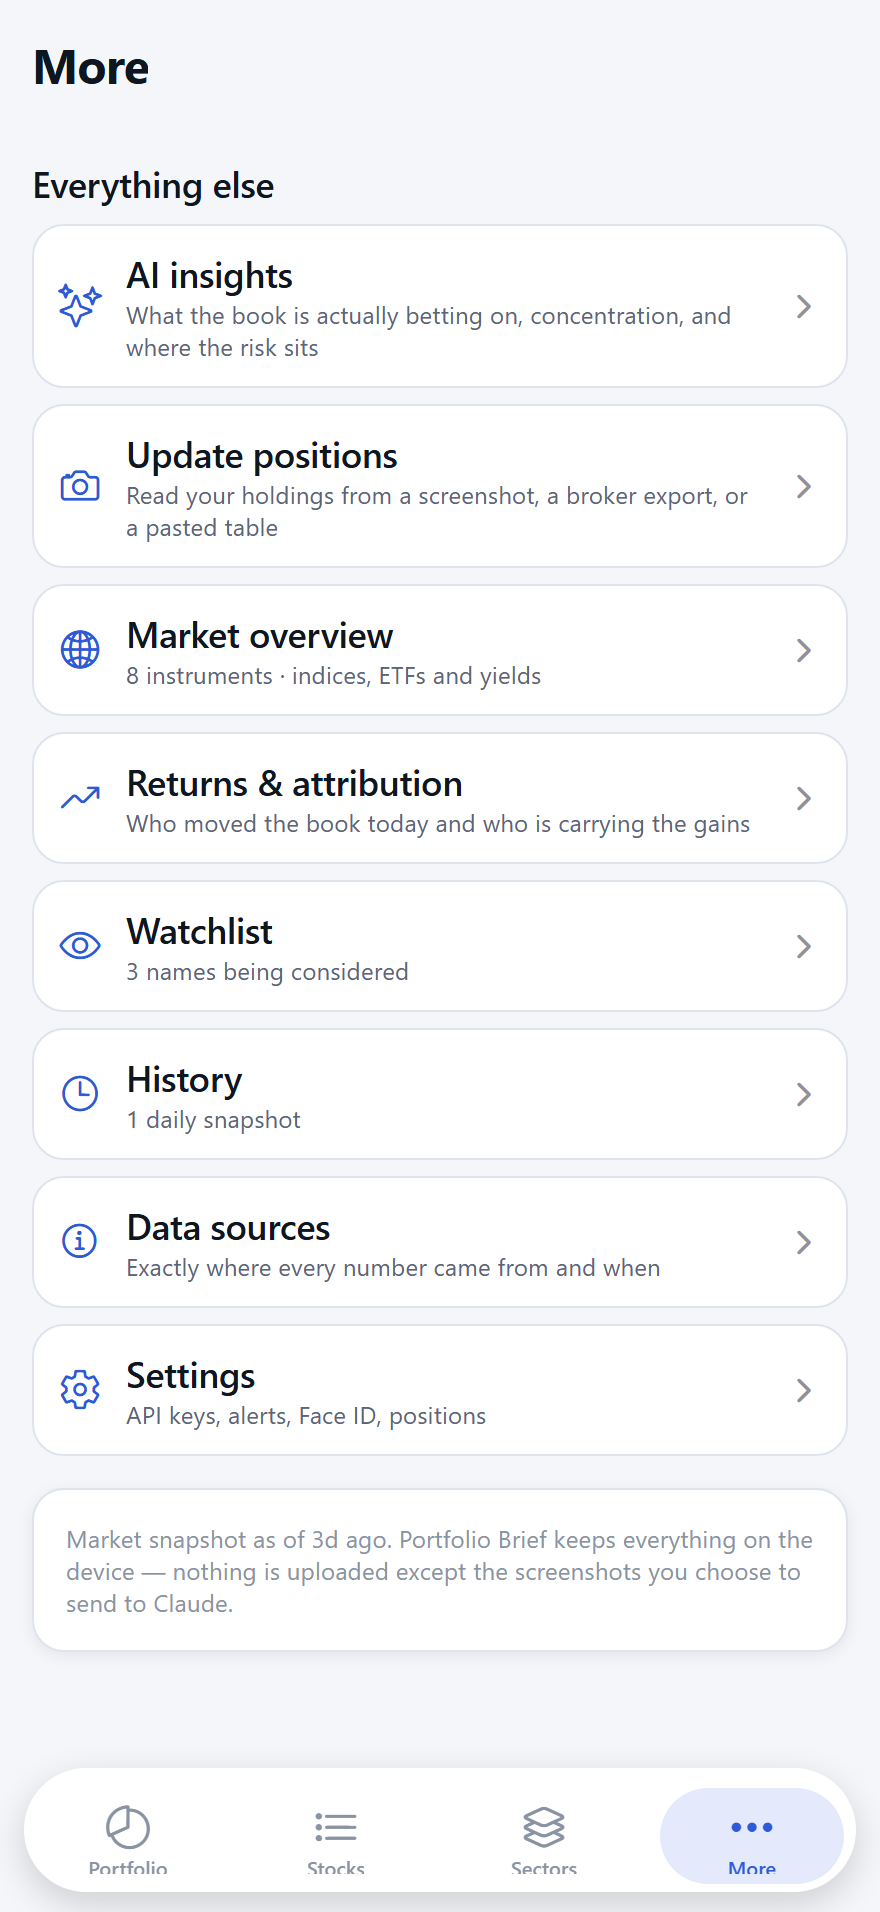
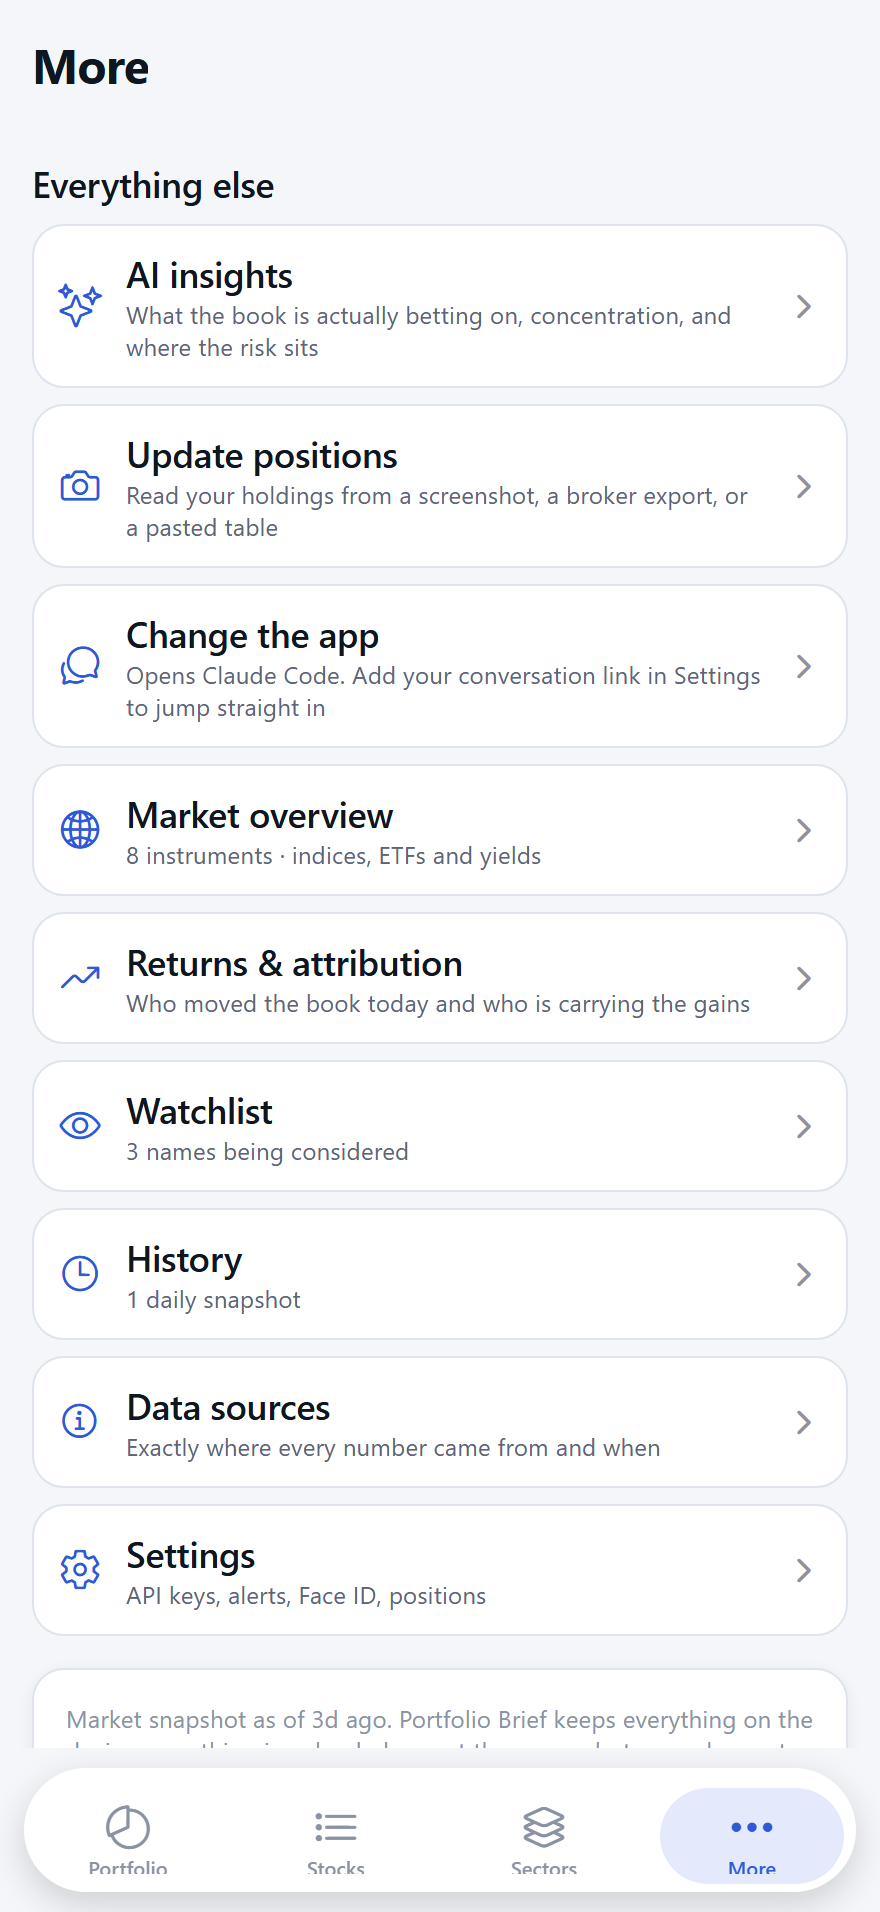
One button that opens the conversation this app is built in
Every earlier attempt at "let me say what to change from my phone" was a
detour around the same wish: composing request text, copying it to a
clipboard, opening a fresh session and pasting. The owner asked for the
short version — a button that opens this conversation — and that is
buildable, so the detours are gone and the button is what remains.

The link is not in the bundle. This repository is public and a session
belongs to its owner, so the app ships with the field empty and learns it
either from Settings or from being opened once as ?session=<url>, which
configures it in a single tap with no URL typed on a phone keyboard. It
lives in two places: the top of Settings, and a row in More, because More
is where a person looks for the things that change the app.

Also fixed, and found only by driving the deployed site end to end: the
image picker was re-encoding every screenshot as JPEG at quality 0.85, and
a broker table is small dark text on a light ground — exactly what JPEG
smears. Gemini read the original PNG perfectly and returned a null average
cost for the same screen after the re-encode, so an import that looked
like it worked wrote positions with no cost basis at all. The picker no
longer recompresses. The unit tests could not have caught this; only
pressing the real button on the real site did.

diff --git a/app/settings.tsx b/app/settings.tsx
@@ -33,7 +33,7 @@ export default function SettingsScreen() {
 
   return (
     <Screen>
-      <ChangeTheAppSection />
+      <TalkToClaudeSection />
 
       <Section
         title="Reading your screenshots"
@@ -205,102 +205,104 @@ export default function SettingsScreen() {
 }
 
 /**
- * Changing the app from the phone, using the subscription rather than the API.
+ * One button that opens the conversation this app is built in.
  *
- * The owner pays for Claude.ai and has no API credits, so the key field below
- * is closed to them — and what they actually wanted was never the in-app
- * research anyway: it was to send a screenshot, say what is wrong, and have
- * the app change. That loop exists, it just does not live inside this bundle.
- * A static page on Pages cannot reach a coding session, and editing the app
- * means writing files and running a build, which a browser tab cannot do.
+ * Everything else tried here was a workaround for the same wish — the owner
+ * wants to say "change this" with a screenshot and have it happen, and they
+ * pay for a Claude.ai subscription rather than API credits. A page served
+ * from Pages cannot reach a coding session, and no amount of copying request
+ * text into a clipboard makes that less of a detour. What it *can* do is open
+ * the conversation, on the phone, in one tap — which is the whole of it.
  *
- * What it can do is hand the request over intact. This composes the note, the
- * exact build the owner is looking at, and where to send it — so the session
- * on the other side starts with the commit, not with "which version?".
+ * The link is not in the bundle. This repository is public and the session
+ * belongs to the owner, so the app ships with the field empty and learns it
+ * either from Settings or from being opened once as `?session=<url>`.
  */
-function ChangeTheAppSection() {
-  const { spacing } = useTheme();
-  const [copied, setCopied] = useState<string | null>(null);
-  const [build, setBuild] = useState<string | null>(null);
-  const [note, setNote] = useState('');
-  const { palette, radius } = useTheme();
+function TalkToClaudeSection() {
+  const { spacing, palette, radius } = useTheme();
+  const settings = useApp((s) => s.settings);
+  const update = useApp((s) => s.updateSettings);
+  const [draft, setDraft] = useState(settings.claudeSessionUrl);
+  const [saved, setSaved] = useState(false);
 
+  // Opening the app as .../?session=<url> configures the button without
+  // anyone typing a URL on a phone keyboard.
   useEffect(() => {
-    // The commit the running site was built from, published beside it.
-    let live = true;
-    const base = (process.env.EXPO_PUBLIC_BASE_URL ?? '').replace(/^\/+|\/+$/g, '');
-    fetch(base ? `/${base}/build-info.json` : '/build-info.json', { cache: 'no-store' })
-      .then((r) => (r.ok ? r.json() : null))
-      .then((j) => {
-        if (live && j?.sha) setBuild(`${String(j.sha).slice(0, 7)} · built ${String(j.builtAt ?? '').slice(0, 16).replace('T', ' ')} UTC`);
-      })
-      .catch(() => {});
-    return () => {
-      live = false;
-    };
-  }, []);
-
-  const request = [
-    'Portfolio Brief — change request from the phone.',
-    build ? `Running build: ${build}` : 'Running build: unknown',
-    'Repo: yoav2410-create/Investing-app-, branch claude/iphone-investment-app-frn8sy',
-    '',
-    note.trim() || '(describe the change, and attach the screenshot)',
-  ].join('\n');
-
-  const copy = async () => {
+    if (Platform.OS !== 'web') return;
     try {
-      if (Platform.OS === 'web' && navigator?.clipboard) {
-        await navigator.clipboard.writeText(request);
-        setCopied('Copied. Paste it into Claude with your screenshot attached.');
-      } else {
-        setCopied('Copying is only available in the browser — select the text above instead.');
+      const fromLink = new URL(window.location.href).searchParams.get('session');
+      if (fromLink && fromLink !== settings.claudeSessionUrl && /^https:\/\//.test(fromLink)) {
+        update({ claudeSessionUrl: fromLink });
+        setDraft(fromLink);
+        setSaved(true);
       }
     } catch {
-      setCopied('The browser refused the clipboard. Select the text above and copy it by hand.');
+      /* a malformed address is not worth a crash */
     }
-  };
+    // Only on mount: this is a one-time handshake, not a live binding.
+    // eslint-disable-next-line react-hooks/exhaustive-deps
+  }, []);
+
+  const target = settings.claudeSessionUrl || 'https://claude.ai/code';
 
   return (
-    <Section title="Change the app" subtitle="Send a screenshot and say what should be different">
+    <Section title="Change the app" subtitle="Opens the conversation this app is built in">
       <Card style={{ gap: spacing.sm }}>
+        <Button
+          label={settings.claudeSessionUrl ? 'Open the conversation' : 'Open Claude Code'}
+          onPress={() => Linking.openURL(target)}
+        />
         <Text variant="caption" muted>
-          This works on a Claude.ai subscription and needs no API key. Open Claude Code in the
-          browser, attach the screenshot, paste the request below, and the change is made, built
-          and published to this site — the same loop that produced every version of it so far.
+          {settings.claudeSessionUrl
+            ? 'Tap it, attach a screenshot, say what should be different. The change is made, built and published back to this site.'
+            : 'Paste the link to your Claude Code conversation below and this button will open it directly. Until then it opens Claude Code.'}
         </Text>
         <TextInput
-          value={note}
+          value={draft}
           onChangeText={(t) => {
-            setNote(t);
-            setCopied(null);
+            setDraft(t);
+            setSaved(false);
           }}
-          placeholder="e.g. on the stock page the earnings card should show the quarter's date"
+          placeholder="https://claude.ai/code/session_…"
           placeholderTextColor={palette.textFaint}
-          multiline
-          accessibilityLabel="What should change"
+          autoCapitalize="none"
+          autoCorrect={false}
+          accessibilityLabel="Claude Code conversation link"
           style={{
-            minHeight: 64,
             color: palette.text,
             backgroundColor: palette.cardMuted,
             borderColor: palette.border,
             borderWidth: 1,
             borderRadius: radius.md,
-            padding: spacing.md,
+            paddingHorizontal: spacing.md,
+            minHeight: 44,
             fontSize: 15,
           }}
         />
         <View style={{ flexDirection: 'row', gap: spacing.sm }}>
-          <Button label="Copy the request" onPress={copy} style={{ flex: 1 }} />
           <Button
-            label="Open Claude Code"
+            label={saved ? 'Saved' : 'Save link'}
+            onPress={() => {
+              update({ claudeSessionUrl: draft.trim() });
+              setSaved(true);
+            }}
             variant="quiet"
-            onPress={() => Linking.openURL('https://claude.ai/code')}
+            style={{ flex: 1 }}
+          />
+          <Button
+            label="Clear"
+            variant="quiet"
+            tone="down"
+            onPress={() => {
+              update({ claudeSessionUrl: '' });
+              setDraft('');
+              setSaved(false);
+            }}
             style={{ flex: 1 }}
           />
         </View>
         <Text variant="caption" faint>
-          {copied ?? (build ? `You are looking at build ${build}.` : 'Build unknown — the site has not published one yet.')}
+          Stored on this device only, and left out of the published app on purpose.
         </Text>
       </Card>
     </Section>

diff --git a/app/(tabs)/more.tsx b/app/(tabs)/more.tsx
@@ -1,5 +1,5 @@
 import React from 'react';
-import { Pressable, StyleSheet, View } from 'react-native';
+import { Linking, Pressable, StyleSheet, View } from 'react-native';
 import { useRouter, type Href } from 'expo-router';
 import { Ionicons } from '@expo/vector-icons';
 import { useTheme } from '@/theme/ThemeProvider';
@@ -8,7 +8,9 @@ import { useApp } from '@/data/store';
 import { relativeAsOf } from '@/domain/format';
 
 type Item = {
-  href: Href;
+  /** A route inside the app, or — with `external` — a URL that leaves it. */
+  href: Href | string;
+  external?: boolean;
   icon: React.ComponentProps<typeof Ionicons>['name'];
   title: string;
   detail: string;
@@ -18,6 +20,7 @@ export default function MoreScreen() {
   const router = useRouter();
   const { palette, spacing, radius } = useTheme();
   const stocks = useApp((s) => s.stocks);
+  const sessionUrl = useApp((s) => s.settings.claudeSessionUrl);
   const snapshots = useApp((s) => s.snapshots);
   const market = useApp((s) => s.market);
 
@@ -40,6 +43,19 @@ export default function MoreScreen() {
       icon: 'camera-outline',
       title: 'Update positions',
       detail: 'Read your holdings from a screenshot, a broker export, or a pasted table',
+    },
+    // Not a route: this leaves the app for the conversation it is built in.
+    // It sits here because More is where the owner looks for the things that
+    // change the app, and a button they cannot find is a button that does not
+    // exist.
+    {
+      href: sessionUrl || 'https://claude.ai/code',
+      external: true,
+      icon: 'chatbubbles-outline',
+      title: 'Change the app',
+      detail: sessionUrl
+        ? 'Opens the conversation — send a screenshot and say what should be different'
+        : 'Opens Claude Code. Add your conversation link in Settings to jump straight in',
     },
     {
       href: '/market',
@@ -86,7 +102,9 @@ export default function MoreScreen() {
           {items.map((i) => (
             <Pressable
               key={i.title}
-              onPress={() => router.push(i.href)}
+              onPress={() =>
+                i.external ? Linking.openURL(String(i.href)) : router.push(i.href as Href)
+              }
               accessibilityRole="button"
               accessibilityLabel={`${i.title}. ${i.detail}`}
               style={({ pressed }) => ({

diff --git a/app/sync.tsx b/app/sync.tsx
@@ -90,10 +90,15 @@ export default function SyncScreen() {
 
     const result =
       from === 'camera'
-        ? await ImagePicker.launchCameraAsync({ base64: true, quality: 0.85 })
+        // quality: 1 is not a nicety. The picker re-encodes anything below it
+        // as JPEG, and a broker table is small text on a light ground — the
+        // exact thing JPEG smears. Measured: the same screenshot read
+        // perfectly as a PNG and came back with a missing average cost after a
+        // 0.85 re-encode. The file is a few hundred KB either way.
+        ? await ImagePicker.launchCameraAsync({ base64: true, quality: 1 })
         : await ImagePicker.launchImageLibraryAsync({
             base64: true,
-            quality: 0.85,
+            quality: 1,
             mediaTypes: ['images'],
           });
     if (result.canceled || !result.assets?.[0]) return;

diff --git a/src/data/store.ts b/src/data/store.ts
@@ -961,7 +961,8 @@ export const useApp = create<AppState>()(
       // re-running it on every bump is free. v4: stocks gained `about`. v5:
       // `about` is backfilled from the bundle, so installs that already had
       // their stocks on disk get the descriptions rather than a blank card.
-      version: 5,
+      // v6: settings gained claudeSessionUrl.
+      version: 6,
       migrate: (persisted: unknown) => normalisePersisted(persisted as Record<string, unknown>),
       // `unlocked` is deliberately not persisted: Face ID must be satisfied
       // again on every cold start.

diff --git a/src/domain/types.ts b/src/domain/types.ts
@@ -526,4 +526,11 @@ export interface Settings {
   /** Alert when a sector drifts >5pp from the target the read set. */
   alertOnDrift: boolean;
   alertOnEarningsWithinDays: number;
+  /**
+   * The Claude Code conversation this app is being built in, so a button can
+   * open it. Empty until the owner sets it — deliberately not shipped in the
+   * bundle, because the repository is public and a session link is theirs.
+   * Set in Settings, or in one tap by opening the app with `?session=<url>`.
+   */
+  claudeSessionUrl: string;
 }

diff --git a/src/data/seed/portfolio.ts b/src/data/seed/portfolio.ts
@@ -219,4 +219,6 @@ export const DEFAULT_SETTINGS: Settings = {
   alertOnInsiderSelling: true,
   alertOnDrift: true,
   alertOnEarningsWithinDays: 7,
+  // Nothing ships pointing at anyone's conversation.
+  claudeSessionUrl: '',
 };
